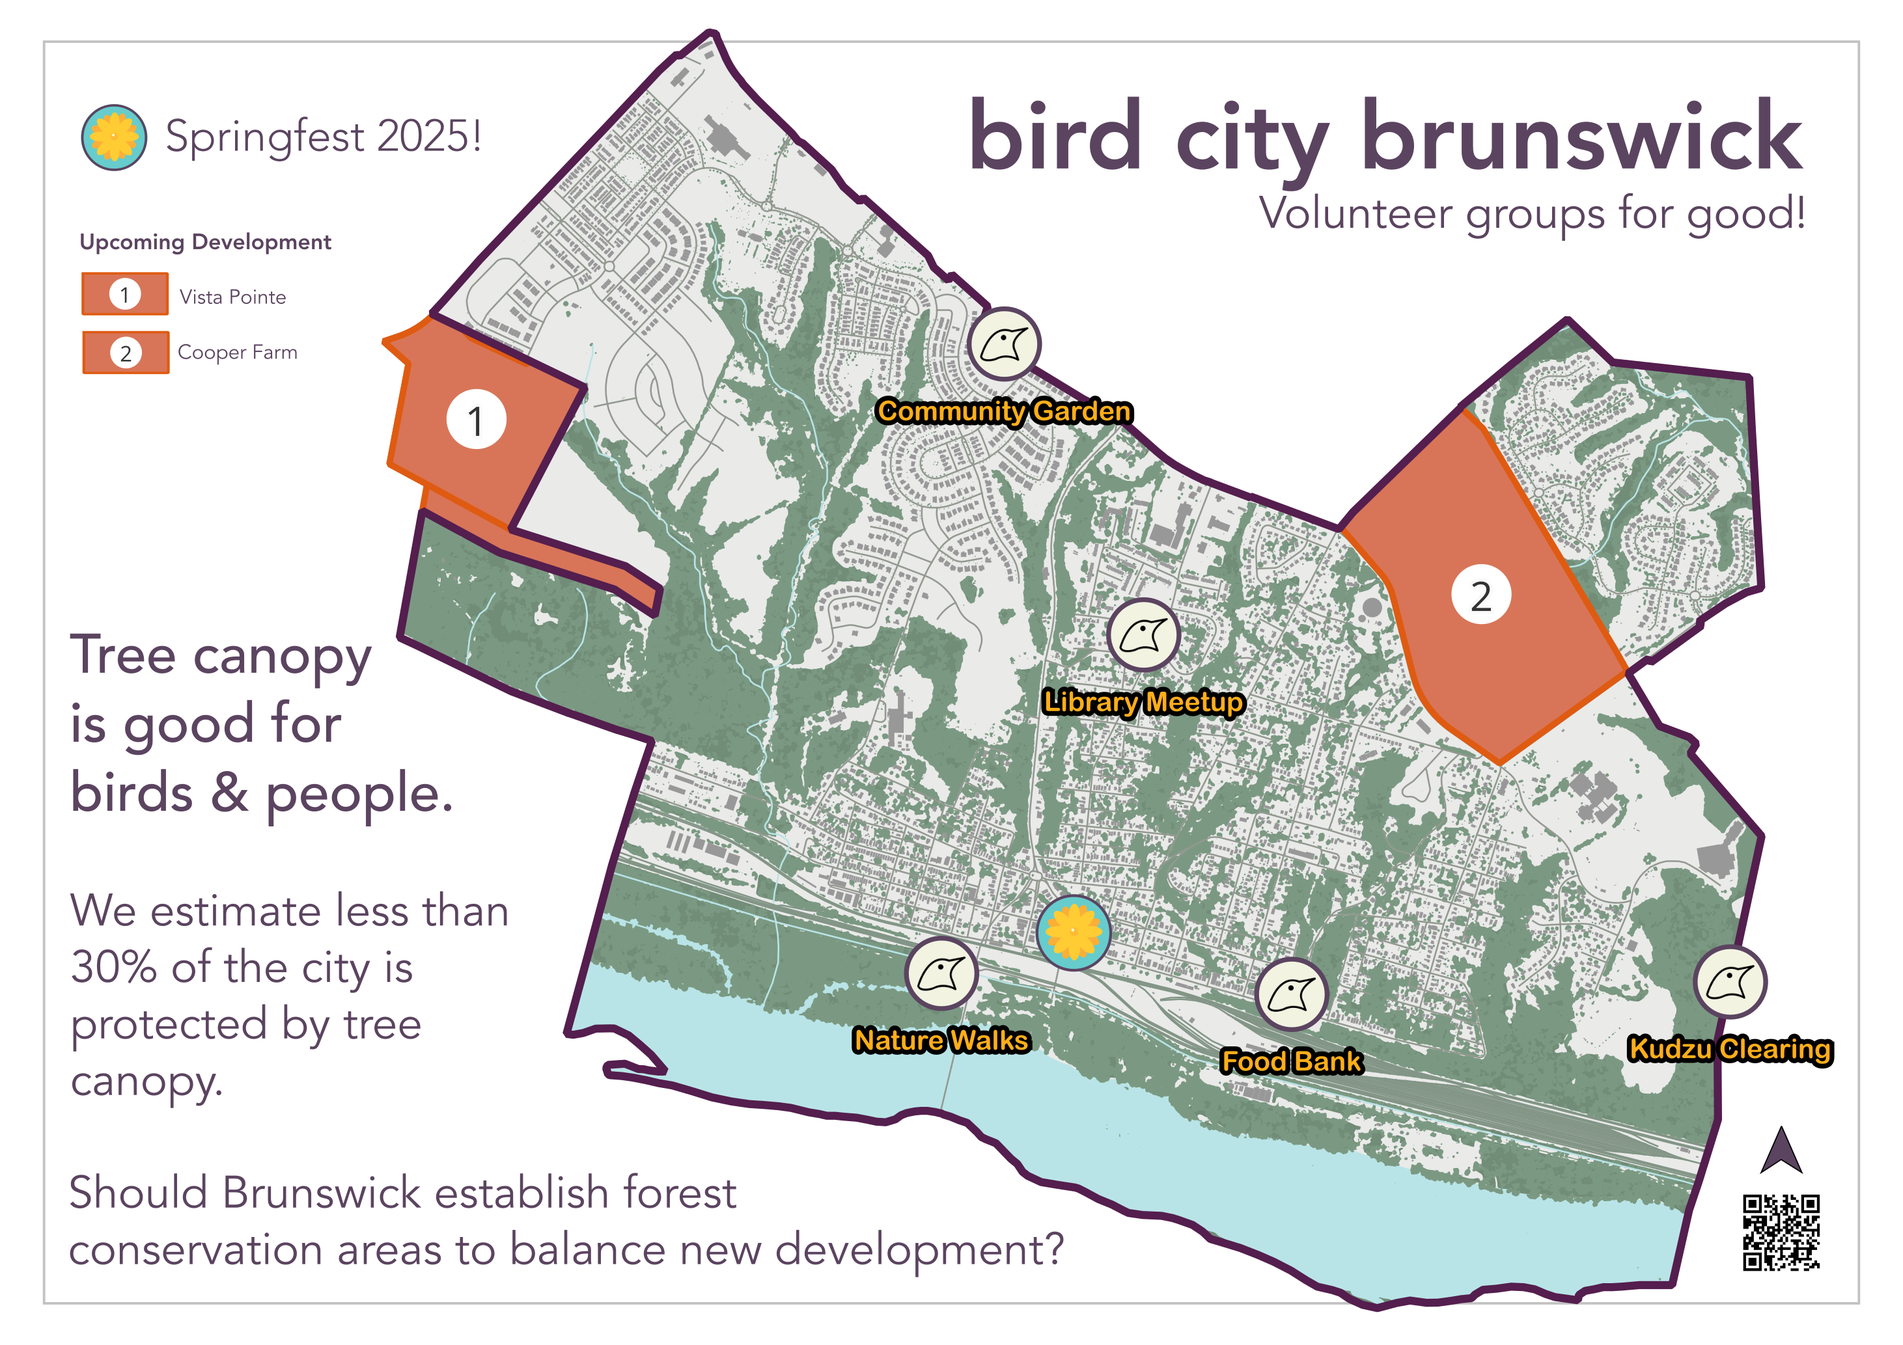
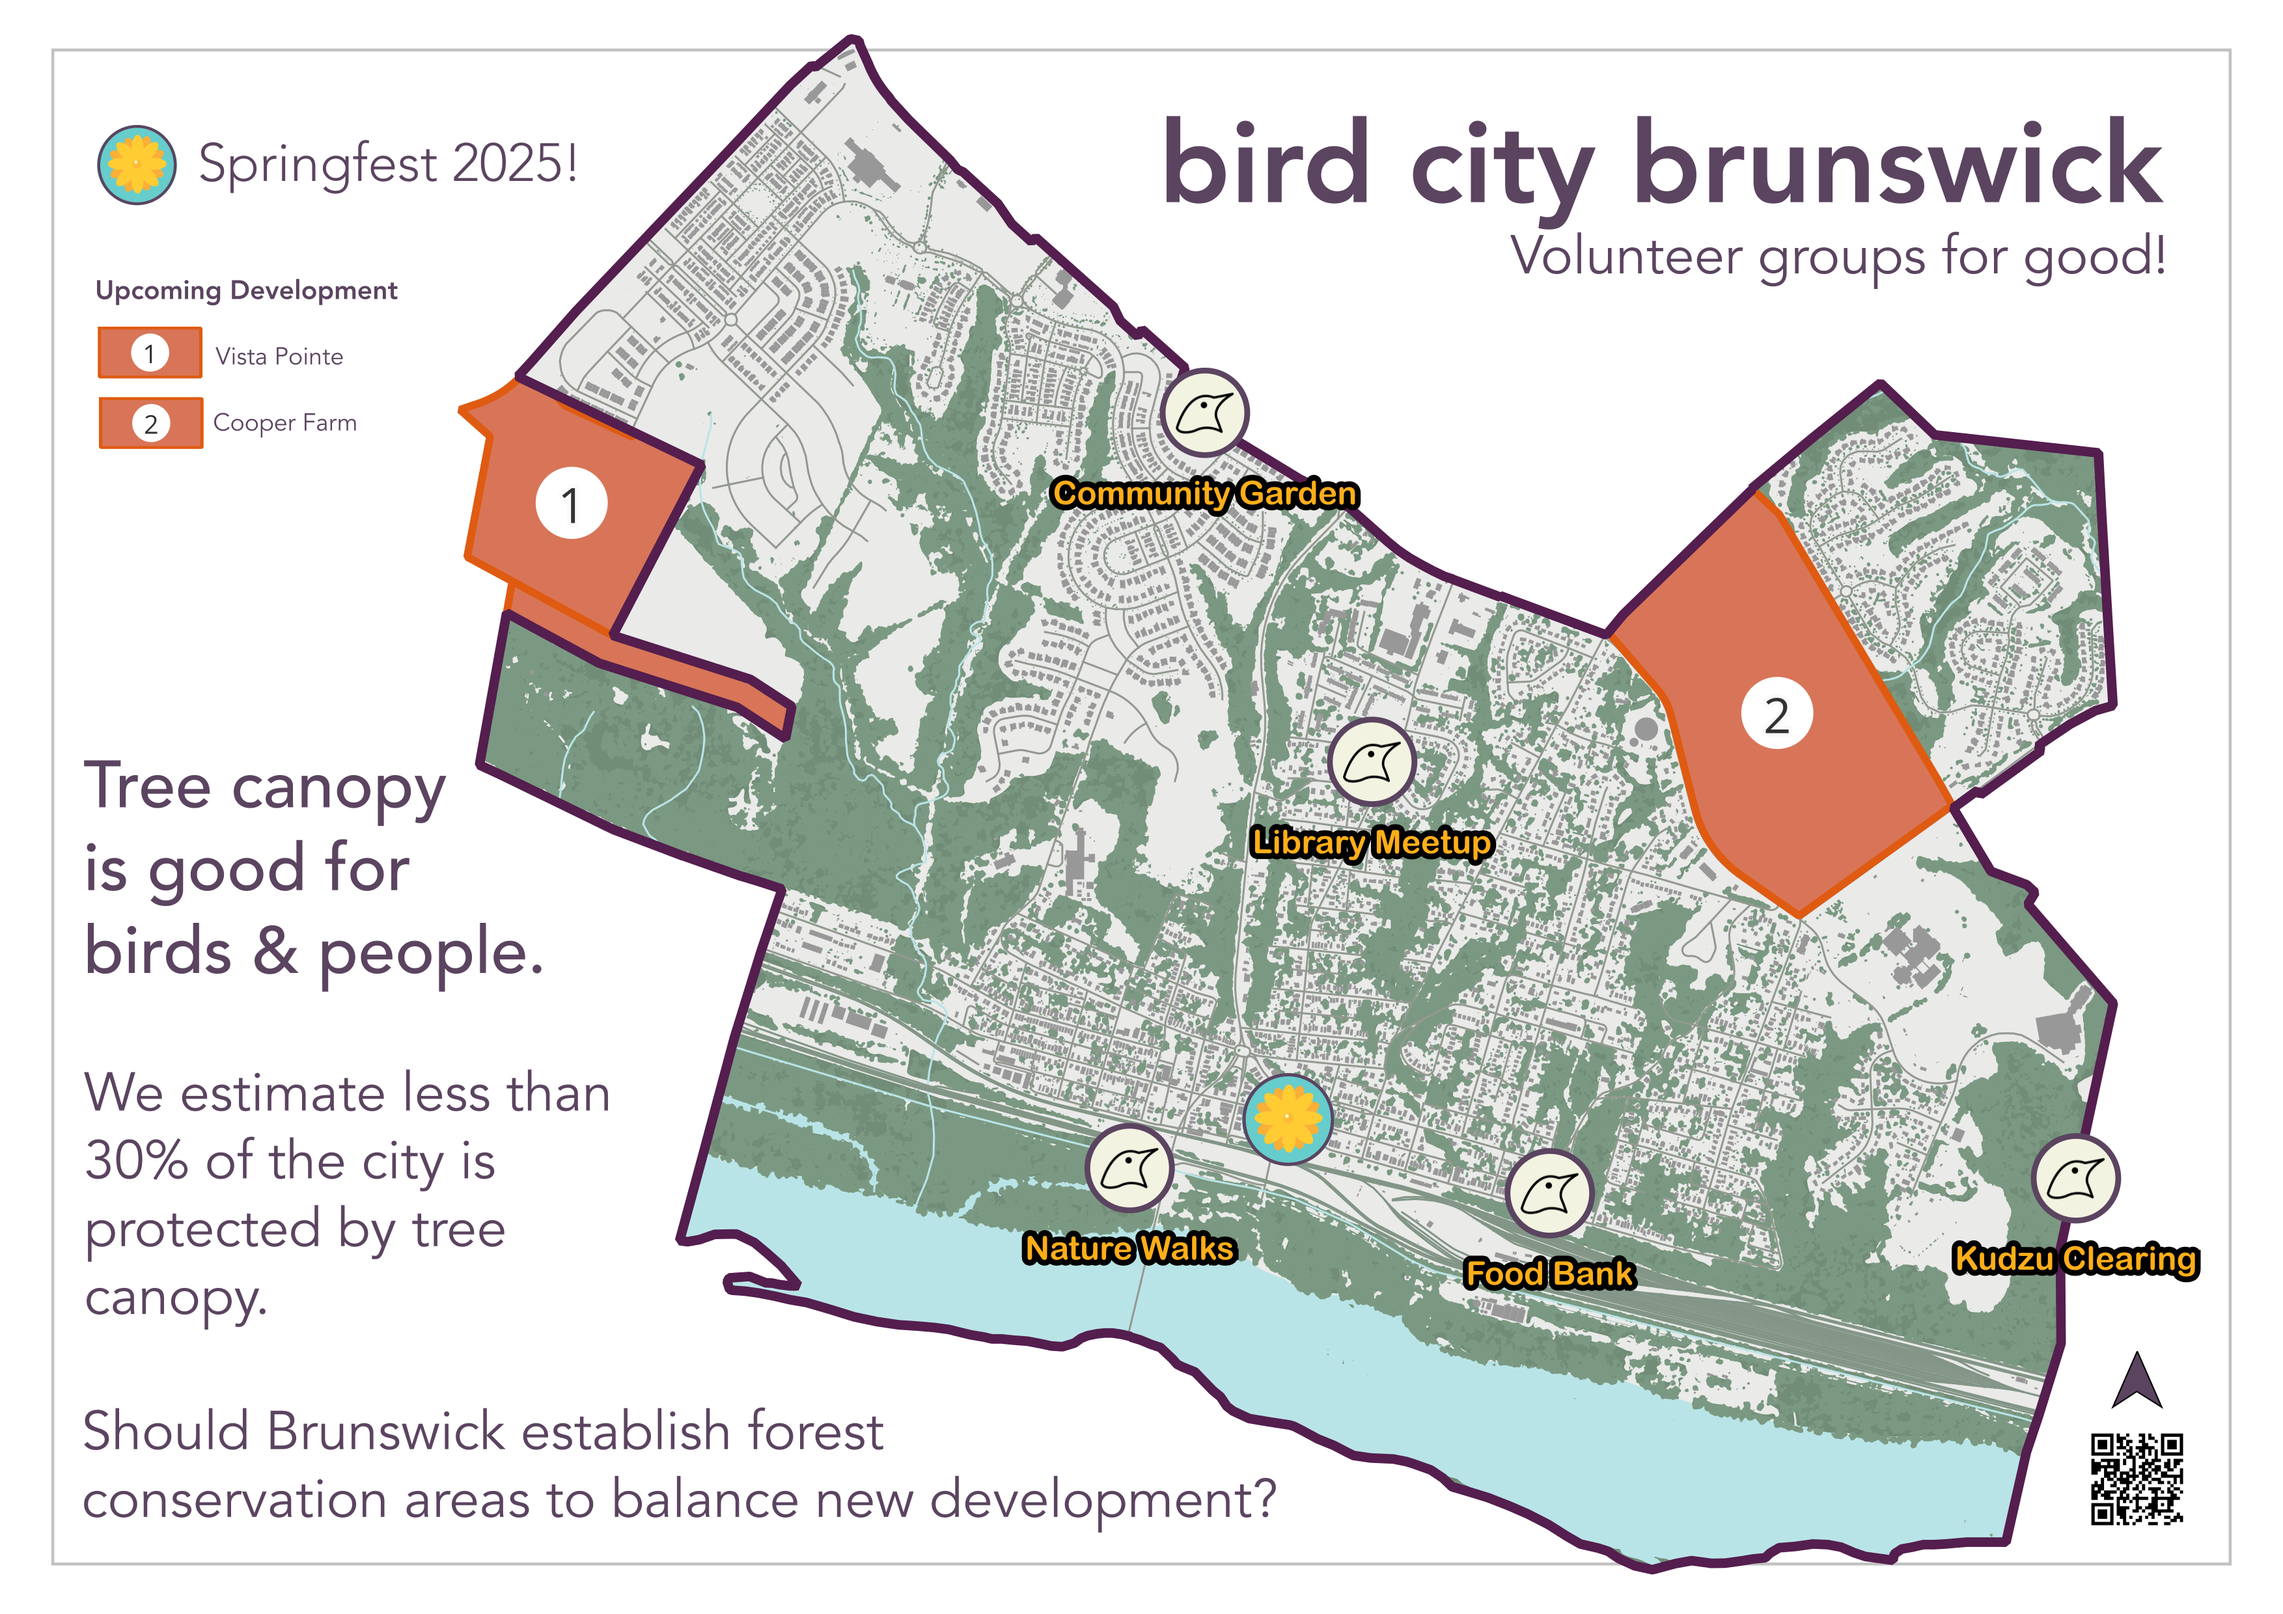
images & minor tweaks

diff --git a/public/index.css b/public/index.css
@@ -6,7 +6,7 @@ body {
 
 main {
   margin: 0 auto;
-  width: 80%;
+  /* width: 80%; */
 }
 
 /* Navigation */
@@ -98,13 +98,14 @@ header li a:hover {
 /* Posts */
 .post-main {
   margin-top: 25px;
+  width: 60%;
+
 }
 
 .post-main img {
   border-radius: 10px;
-  /* border: 1px solid #5b4460; */
   display: block;
-  margin: auto;
+  margin: 0 auto;
 }
 
 .post-main h1 {

diff --git a/content/posts/springfest/.md b/content/posts/springfest/.md
@@ -6,15 +6,26 @@ tags: post
 layout: /layouts/posts.njk
 ---
 
-<img src="springfester.png" alt="Springfest" width=700>
-<h3>Bird City is looking for volunteers to help with the various projects we are tracking across Brunswick.</h3>
+<img src="springfester.png" alt="Springfest" width=800 height-500/>
 
 # Springfest 2025
 We have another booth and a bit of experience from last year. 
 
-I cleaned up an Amazon tablet so that we can have people fill out [Neils' survey](https://docs.google.com/forms/d/e/1FAIpQLSe-Cq82KN_hNPP0PV9zyb2EVJ9z0ARVHyneeNjRyLsjRHMlgw/viewform?fbclid=IwY2xjawKE6s9leHRuA2FlbQIxMABicmlkETFGQ1RIaVVpR0k5OWpySGo2AR5laxPaYlyrUJfTmyphV7RO5j4rZaLIWu71lpvZarukbc9DMY9mZjUgA4ZSEw_aem_JieoZM4_1LAPuQFA_cK2ww). 
+I cleaned up an Amazon tablet so that we can have people fill out [Neil's survey](https://docs.google.com/forms/d/e/1FAIpQLSe-Cq82KN_hNPP0PV9zyb2EVJ9z0ARVHyneeNjRyLsjRHMlgw/viewform?fbclid=IwY2xjawKE6s9leHRuA2FlbQIxMABicmlkETFGQ1RIaVVpR0k5OWpySGo2AR5laxPaYlyrUJfTmyphV7RO5j4rZaLIWu71lpvZarukbc9DMY9mZjUgA4ZSEw_aem_JieoZM4_1LAPuQFA_cK2ww). 
 
 We can show people the [website](https://birdcitybrunswick.org/), invite them to the [Community Garden](https://birdcitybrunswick.org/community-garden), and give them a flyer (below) to the potluck we are planning in June.
 
-<br />
-<img src="flyer.png" alt="flya" width=600>
+# Plant Swap
+Our garden is starting to take shape, which means we can contribute a bit this year. 
+
+The jewelweed that Joe gave me last year came back. 
+
+We've also been pulling maples out of our beds and planting them in a big kiddie pool.
+
+<img src="maples.JPG" alt="Maples" width=500 height=500/>
+<h3>We've been harvesting the maples that have popped up across the yard.</h3>
+
+# Flyers
+Beside the map above, we'll have these "business card" flyers to promote our next event in June. 
+
+<img src="flyer.png" alt="flya" width=600 />
